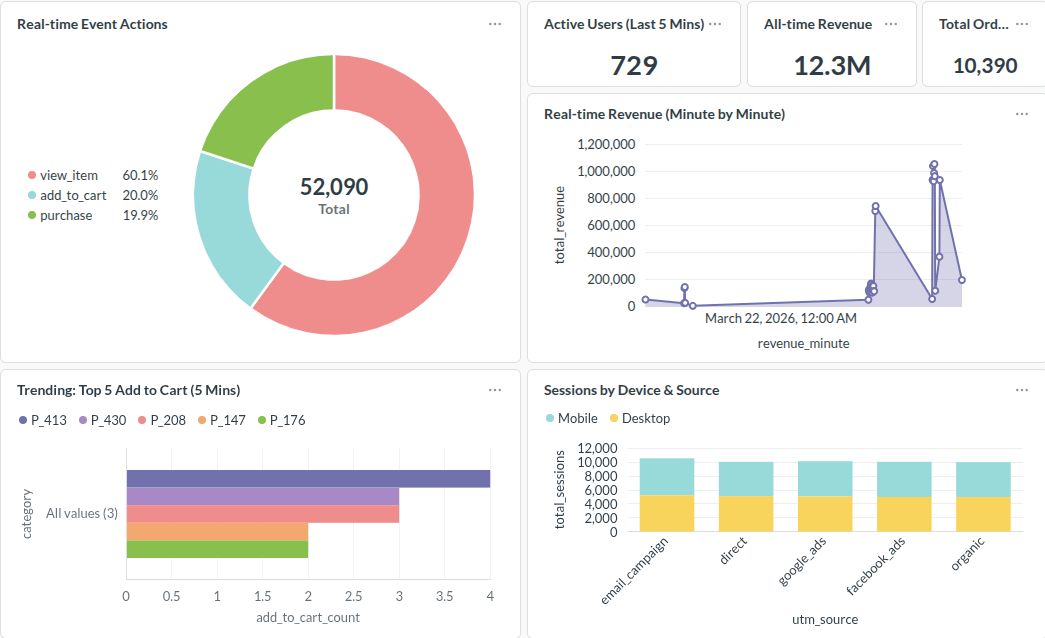
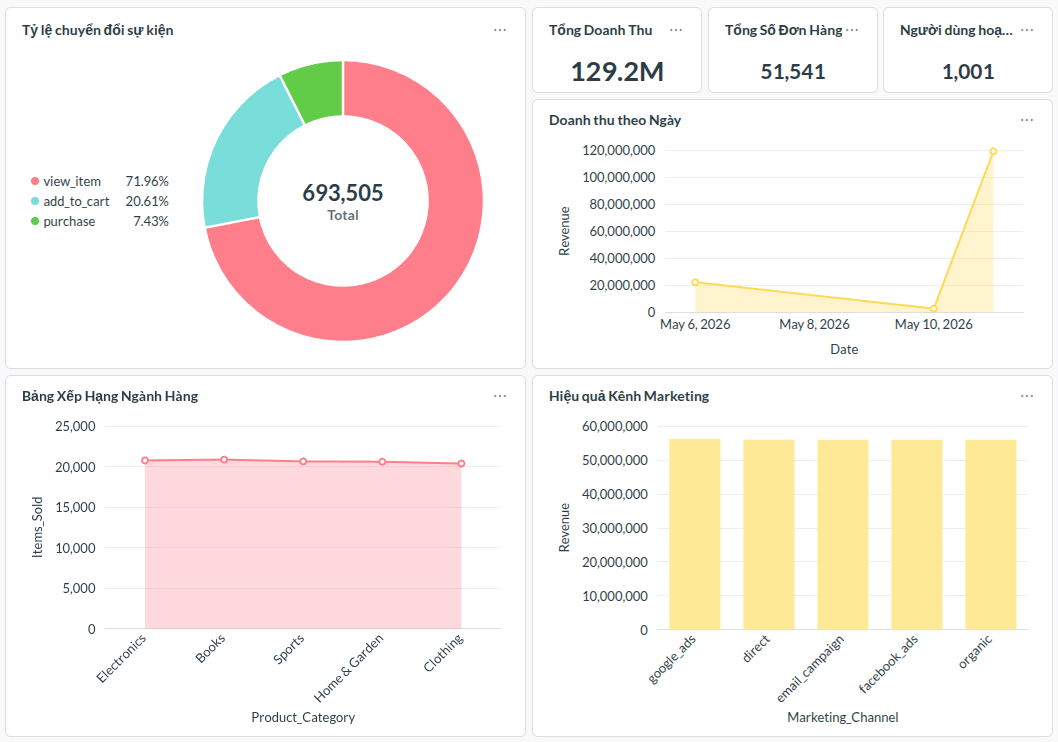
README.md

diff --git a/README.md b/README.md
@@ -24,25 +24,80 @@ The architecture follows the **Medallion Data Lakehouse** pattern (Bronze -> Sil
 
 ## 🧠 Key Data Engineering Techniques Implemented
 
-### 1. Spark Structured Streaming & Delta Lake
+### 1. Data Simulation and Ingestion Methods
 
-* Replaced traditional batch processing with Continuous Streaming.
-* Utilized Delta Lake `_delta_log` for ACID transactions, preventing data corruption during streaming interruptions.
-* Implemented Checkpointing to ensure exactly-once semantics and fault tolerance.
+#### **Realistic Clickstream Event Generation**
+The project implements a sophisticated data generator that simulates realistic e-commerce user behavior with stateful session management, behavior-driven action flows, and intentional dirty data injection to test data quality pipelines.
 
-### 2. Medallion Architecture Implementation
+**Key Techniques:**
+- **Stateful Session Management** with Garbage Collection: Maintains up to 5,000 active user sessions in-memory, automatically evicting oldest sessions to prevent memory leaks while creating realistic user journeys.
+- **Behavior-Driven Action Flows**: Implements state-machine logic where user actions follow realistic patterns (70% continue browsing after viewing, 30% add to cart; 40% checkout after adding to cart).
+- **Late Event Injection**: Simulates real-world network delays with 75% on-time events and 25% late arrivals (up to 30 seconds) to test watermarking capabilities.
+- **Intentional Dirty Data Injection** (5% error rate): Tests data quality by injecting null values, invalid prices, type mismatches, and schema drift.
 
-* 🥉 **Bronze Layer (Ingestion):** Appends raw JSON payloads directly from Event Hubs.
-* 🥈 **Silver Layer (Transformation):** Unpacks JSON schemas (`from_json`), enforces data types (String to Timestamp), and filters out corrupted records (e.g., null `user_id`).
-* 🥇 **Gold Layer (Consumption):** Designed for high-performance OLAP queries using a **Star Schema** approach.
+#### **Azure Event Hubs Integration**
+Uses batching mechanism with automatic overflow handling and traffic spike simulation (50-100 events/sec normally, with occasional 3-5x multipliers) to test streaming performance during peak loads.
 
-### 3. Advanced Dimensional Modeling (SCD Type 1 & 2)
+### 2. Streaming Processing Approaches
 
-Used Spark's `foreachBatch` mechanism and Delta's `MERGE INTO` functionality to process micro-batches into the Star Schema:
+#### **Bronze Layer: Raw Ingestion with Checkpointing**
+- **Kafka Source Integration**: Connects to Azure Event Hubs using Kafka-compatible endpoints with SASL/SSL authentication.
+- **Fault-Tolerant Configuration**: `failOnDataLoss: false` gracefully handles Event Hub retention policy by continuing from latest offset.
+- **10-Second Micro-batching**: Balances latency (~10s) with throughput by processing in 10-second windows.
+- **Checkpointing**: Records offset progress in ADLS, enabling exactly-once delivery semantics and crash recovery.
 
-* **Fact Table (`fact_clickstream`):** Insert-only event records.
-* **Dimension Table (`dim_user` - SCD Type 1):** Upserts (Updates/Inserts) to keep only the latest user device/source information.
-* **Dimension Table (`dim_product` - SCD Type 2):** Tracks historical pricing changes over time by utilizing `is_current`, `valid_from`, and `valid_to` flags, enabling accurate historical revenue calculation.
+#### **Silver Layer: Data Quality & Streaming Transformations**
+- **JSON Schema Validation**: Uses `from_json` with `_corrupt_record` column to capture malformed JSON instead of failing the pipeline.
+- **Multi-condition Filtering**: Four independent validation gates (corrupt JSON, missing user_id, invalid price, bot traffic) catch 95%+ of bad records.
+- **Watermarking**: Allows 10-minute late arrivals before closing windows, critical for delayed events from slow networks.
+- **Deduplication**: Removes duplicate `event_id` records within the watermark period.
+- **Dead Letter Queue (DLQ)**: Routes bad records to a separate table with error classification for debugging and audit trails.
+
+### 3. Data Lakehouse Architecture Patterns
+
+#### **Medallion Three-Layer Architecture**
+Implements clean separation of concerns across Bronze (raw), Silver (validated), and Gold (optimized) layers using Delta Lake for ACID transactions, schema evolution, time-travel auditing, and automatic compaction.
+
+| Layer | Purpose | Schema | Access |
+|-------|---------|--------|--------|
+| **Bronze** | Preserve raw data as-is | `raw_payload`, `ingestion_timestamp` | Data engineers, debuggers |
+| **Silver** | Enforce quality & types | Parsed JSON with typed columns | Data analysts, transforms |
+| **Gold** | OLAP-optimized Star Schema | Fact + 5 Dimensions | BI tools, dashboards |
+
+### 4. Advanced Dimensional Modeling (SCD Type 1 & 2)
+
+#### **Star Schema: 1 Fact + 5 Dimensions**
+Uses Spark's `foreachBatch` mechanism and Delta's `MERGE INTO` functionality to process micro-batches into an optimized Star Schema.
+
+- **Fact Table (`fact_events`)**: Insert-only immutable event records with net revenue calculation `(price * quantity) - discount`.
+- **Dimension Users (SCD Type 1)**: Overwrite-only dimension keeping latest device/OS info, no historical tracking.
+- **Dimension Products (SCD Type 2)**: Tracks historical category changes using `is_current`, `start_date`, and `end_date` flags for accurate historical revenue calculation.
+- **Supporting Dimensions**: Date (conformed for time aggregations), Location (MD5 composite key), Sessions (marketing attribution).
+
+### 5. Spark, Delta Lake, and Azure Services Usage
+
+#### **Spark Structured Streaming Pattern**
+- **Reading**: `spark.readStream.format("kafka")` with Event Hubs integration
+- **Writing**: `writeStream.format("delta").outputMode("append")` with checkpointing
+- **foreachBatch**: Enables complex SCD logic and idempotent MERGE operations per micro-batch
+
+#### **Azure Integration**
+- **Event Hubs**: Kafka-compatible messaging with 24-hour retention and automatic partitioning
+- **ADLS Gen2**: Hierarchical storage with `abfss://` protocol for Delta Lake compatibility
+- **Databricks**: Pre-configured Spark clusters with Secret Scopes for Key Vault integration
+
+### 6. Error Handling, Fault Tolerance, and Data Quality Measures
+
+#### **Fault Tolerance Mechanisms**
+- **Checkpointing at Every Layer**: Bronze, Silver, and Gold layers maintain separate checkpoints for exactly-once semantics
+- **Delta Lake ACID Transactions**: Prevents partial writes and ensures data consistency during failures
+- **Event Hub Resilience**: Graceful handling of data loss scenarios without pipeline interruption
+
+#### **Data Quality Implementation**
+- **Multi-Layer Validation**: JSON parsing, type enforcement, and business rule validation
+- **Dead Letter Queue**: Separate stream for bad records with error classification
+- **Watermarking & Deduplication**: Handles late arrivals and prevents duplicate processing
+- **Real-time Monitoring**: DLQ analysis and BI dashboard metrics for pipeline health
 
 ## 🚀 How to Run the Project
 
